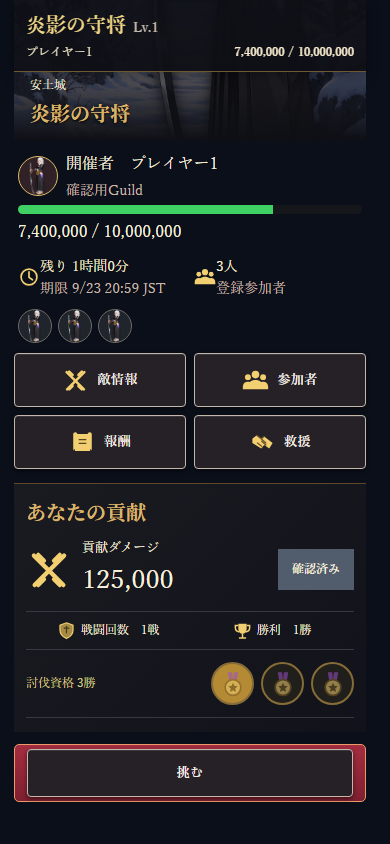
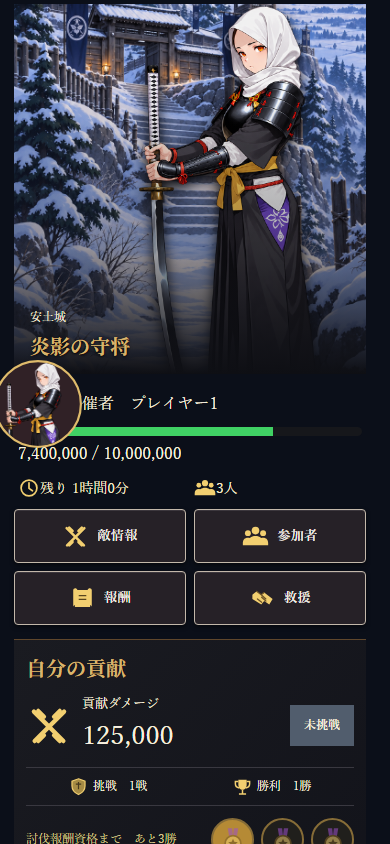
fix: align compact raid detail with approved mock

diff --git a/src/app/components/raid/RaidApprovedVisual.css b/src/app/components/raid/RaidApprovedVisual.css
@@ -5,3 +5,5 @@
 .raid-approved-detail{position:relative;color:#f8f0df}.raid-approved-detail__compact{position:sticky;top:0;z-index:8;display:grid;grid-template-columns:minmax(0,1fr) auto;gap:2px 12px;padding:9px 12px;background:rgba(15,16,22,.96);border-bottom:1px solid #6f5834;box-shadow:0 4px 12px rgba(0,0,0,.35)}.raid-approved-detail__compact strong{grid-column:1/-1;color:#efd584;font:700 20px Georgia,serif}.raid-approved-detail__compact small{font-size:.7em}.raid-approved-detail__compact span,.raid-approved-detail__compact b{font-size:12px;color:#f7ebce}.raid-approved-detail__compact b{text-align:right}
 .raid-approved-detail__hero{height:370px;position:relative;overflow:hidden}.raid-approved-detail__background{position:absolute;inset:0;width:100%;height:100%;object-fit:cover}.raid-approved-detail__character{position:absolute;inset:0 0 0 auto;width:94%;height:118%;object-fit:contain;object-position:50% 0;transform:translateX(11%);filter:drop-shadow(0 5px 7px #000)}.raid-approved-detail__hero:after{content:'';position:absolute;inset:0;background:linear-gradient(0deg,#0e0f14 0,rgba(10,10,16,.35) 34%,transparent 78%);pointer-events:none}.raid-approved-detail__hero-copy{position:absolute;left:16px;right:12px;bottom:14px;z-index:1}.raid-approved-detail__hero-copy span{font-size:12px}.raid-approved-detail__hero-copy h2{margin:3px 0 0;color:#eed27e;font:700 27px Georgia,serif;text-shadow:0 1px 3px #000}.raid-approved-detail__owner{display:flex;align-items:center;gap:8px;padding:10px 4px 3px}.raid-approved-detail__owner>img,.raid-approved-detail__owner>span{width:40px;height:40px;border-radius:50%;border:1px solid #dfbb6b;background:#302126;object-fit:contain}.raid-approved-detail__owner div{display:grid;gap:2px}.raid-approved-detail__owner strong{font:16px Georgia,serif}.raid-approved-detail__owner small{color:#d3c8b8;font-size:11px}.raid-approved-detail__battle{padding:0 4px}.raid-approved-detail__battle>.raid-approved-detail__hp>div{height:9px;background:#16171b;border-radius:5px;overflow:hidden}.raid-approved-detail__battle>.raid-approved-detail__hp>div span{display:block;height:100%;background:#40d164}.raid-approved-detail__battle>.raid-approved-detail__hp strong{display:block;margin-top:5px;font:16px Georgia,serif}.raid-approved-detail__facts{display:grid;grid-template-columns:1fr 1fr;gap:8px;margin-top:10px}.raid-approved-detail__facts>span{display:grid;grid-template-columns:22px 1fr;align-items:center;color:#f7ebce;font-size:14px}.raid-approved-detail__facts small{grid-column:2;color:#bdb3a4;font-size:10px}.raid-approved-detail__facts .raid-approved-visual__icon{width:22px;height:22px;grid-row:1/3}.raid-approved-detail__faces{display:flex;gap:6px;margin:10px 0}.raid-approved-detail__faces img{width:34px;height:34px;border-radius:50%;border:1px solid #6e6a67;object-fit:contain;background:#20242b}.raid-approved-detail__actions{display:grid;grid-template-columns:repeat(2,1fr);gap:8px;margin-top:10px}.raid-approved-detail__actions>*{min-height:54px}.raid-approved-detail__actions img{width:27px;height:27px}.raid-approved-detail__contribution{margin-top:14px;padding:14px 12px;background:linear-gradient(135deg,#1a1b21,#12131a);border-top:1px solid #60472c}.raid-approved-detail__contribution h2{margin:0 0 12px;color:#e9ca6c;font:700 23px Georgia,serif}.raid-approved-detail__damage{display:flex;align-items:center;gap:10px}.raid-approved-detail__damage>.raid-approved-visual__icon{width:46px;height:46px}.raid-approved-detail__damage span{display:grid;font-size:13px}.raid-approved-detail__damage strong{font:26px Georgia,serif}.raid-approved-detail__damage b{margin-left:auto;background:#515d6d;padding:11px 14px;font-size:12px}.raid-approved-detail__stats{display:grid;grid-template-columns:1fr 1fr;margin-top:10px;padding:9px 0;border-top:1px solid #393840;border-bottom:1px solid #393840;font-size:12px}.raid-approved-detail__stats span{display:flex;align-items:center;justify-content:center;gap:5px}.raid-approved-detail__stats img{width:19px;height:19px}.raid-approved-detail__eligibility{display:flex;align-items:center;justify-content:space-between;padding:12px 0;border-bottom:1px solid #393840;color:#d9c98f;font-size:12px}.raid-approved-detail__eligibility>div{display:flex;gap:7px}.raid-approved-detail__eligibility>div span{display:grid;place-items:center;width:43px;height:43px;border:2px solid #866c37;border-radius:50%;background:#201f1c}.raid-approved-detail__eligibility .raid-approved-visual__icon{width:28px;height:28px;opacity:.55}.raid-approved-detail__eligibility>div span.is-done{background:#b58a35}.raid-approved-detail__challenge{display:flex;align-items:center;width:100%;gap:14px;margin-top:12px;min-height:58px;padding:0 12px;border:1px solid #ed9a6a;border-radius:5px;background:linear-gradient(#a52d40,#7e2031);color:#fff;font-size:21px}.raid-approved-detail__challenge>span:last-child{display:flex;align-items:center;gap:4px;margin-left:auto;font-size:12px}.raid-approved-detail__challenge img{width:20px;height:20px}
 .raid-approved-card__footer>button{border:1px solid #e3bb8a;border-radius:4px;background:#8f2435;color:#fff}.raid-approved-detail__challenge .outlaw-button{width:100%;border-color:#ed9a6a;background:linear-gradient(#a52d40,#7e2031);color:#fff}
+.raid-approved-detail__compact{grid-template-columns:30px minmax(0,1fr) auto;align-items:center;gap:8px;padding:7px 10px}.raid-approved-detail__compact>img,.raid-approved-detail__compact>span{width:28px;height:28px;border:1px solid #dfbb6b;border-radius:50%;background:#302126;object-fit:cover;object-position:50% 10%;transform:scale(1.35);overflow:hidden}.raid-approved-detail__compact>div{display:grid;gap:1px;min-width:0}.raid-approved-detail__compact strong{grid-column:auto;font-size:14px;white-space:nowrap;overflow:hidden;text-overflow:ellipsis}.raid-approved-detail__compact div span{font-size:10px;color:#f7ebce;white-space:nowrap}.raid-approved-detail__compact b{font-size:11px;white-space:nowrap}.raid-approved-detail__hero.is-compact{height:150px}.raid-approved-detail__hero.is-compact .raid-approved-detail__character{height:125%}.raid-approved-detail__owner>img{object-fit:cover;object-position:50% 8%;transform:scale(1.65);overflow:hidden}.raid-approved-detail__owner small{display:none}.raid-approved-detail__contribution>p{margin:10px 0 0;color:#d3c8b8;font-size:11px}.raid-approved-detail__challenge .outlaw-button-inner{width:100%;justify-content:center;background:linear-gradient(#a52d40,#7e2031);color:#fff;padding:9px 12px}.raid-approved-detail__challenge .outlaw-button{background:linear-gradient(#a52d40,#7e2031);border-color:#ed9a6a}
+.raid-approved-detail__compact>img,.raid-approved-detail__compact>span{transform:scale(2.1);object-position:50% 0}.raid-approved-detail__owner>img{transform:scale(2.2);object-position:50% 0}

diff --git a/src/app/components/raid/RaidApprovedVisual.tsx b/src/app/components/raid/RaidApprovedVisual.tsx
@@ -55,10 +55,10 @@ export interface RaidApprovedDetailData {
 
 export function RaidApprovedDetailVisual({ data, resolve = value => value, compact = false, actions, contribution, challenge }: { data: RaidApprovedDetailData; resolve?: (url: string) => string; compact?: boolean; actions: ReactNode; contribution: ReactNode; challenge: ReactNode }) {
   return <div className="raid-approved-detail">
-    {compact && <div className="raid-approved-detail__compact"><strong>{data.bossName} <small>Lv.1</small></strong><span>{data.ownerName}</span><b>{data.hpValueLabel}</b></div>}
-    <section className="raid-approved-detail__hero"><img className="raid-approved-detail__background" src={data.backgroundUrl ? resolve(data.backgroundUrl) : undefined} alt="" /><img className="raid-approved-detail__character" src={data.characterUrl ? resolve(data.characterUrl) : undefined} alt="" /><div className="raid-approved-detail__hero-copy"><span>{data.areaLabel}</span><h2>{data.bossName}</h2></div></section>
-    <section className="raid-approved-detail__owner">{data.ownerImageUrl ? <img src={resolve(data.ownerImageUrl)} alt={data.ownerName} /> : <span />}<div><strong>開催者　{data.ownerName}</strong><small>{data.guildLabel}</small></div></section>
-    <section className="raid-approved-detail__battle"><div className="raid-approved-detail__hp"><div><span style={{ width: `${data.hpPercent ?? 0}%` }} /></div><strong>{data.hpValueLabel}</strong></div><div className="raid-approved-detail__facts"><span><RaidApprovedIcon name="clock" />{data.remainingLabel}<small>{data.expiryLabel}</small></span><span><RaidApprovedIcon name="people" />{data.participantLabel}<small>登録参加者</small></span></div>{data.faces && <div className="raid-approved-detail__faces">{data.faces.map(face => <img key={face.id} src={resolve(face.url)} alt={face.name} />)}</div>}</section>
+    {compact && <div className="raid-approved-detail__compact">{data.ownerImageUrl ? <img src={resolve(data.ownerImageUrl)} alt={data.ownerName} /> : <span />}<div><strong>{data.bossName} <small>Lv.1</small></strong><span>開催者　{data.ownerName}</span></div><b>{data.hpValueLabel}</b></div>}
+    <section className={`raid-approved-detail__hero${compact ? ' is-compact' : ''}`}><img className="raid-approved-detail__background" src={data.backgroundUrl ? resolve(data.backgroundUrl) : undefined} alt="" /><img className="raid-approved-detail__character" src={data.characterUrl ? resolve(data.characterUrl) : undefined} alt="" />{!compact && <div className="raid-approved-detail__hero-copy"><span>{data.areaLabel}</span><h2>{data.bossName}</h2></div>}</section>
+    {!compact && <><section className="raid-approved-detail__owner">{data.ownerImageUrl ? <img src={resolve(data.ownerImageUrl)} alt={data.ownerName} /> : <span />}<div><strong>開催者　{data.ownerName}</strong></div></section>
+    <section className="raid-approved-detail__battle"><div className="raid-approved-detail__hp"><div><span style={{ width: `${data.hpPercent ?? 0}%` }} /></div><strong>{data.hpValueLabel}</strong></div><div className="raid-approved-detail__facts"><span><RaidApprovedIcon name="clock" />{data.remainingLabel}</span><span><RaidApprovedIcon name="people" />{data.participantLabel}</span></div></section></>}
     <nav className="raid-approved-detail__actions">{actions}</nav>
     {contribution}
     {challenge}
@@ -66,7 +66,7 @@ export function RaidApprovedDetailVisual({ data, resolve = value => value, compa
 }
 
 export function RaidApprovedContribution({ damageLabel, damageValue, battlesLabel, eligibilityLabel, completed = 0 }: { damageLabel: string; damageValue: string; battlesLabel: string; eligibilityLabel: string; completed?: number }) {
-  return <section className="raid-approved-detail__contribution"><h2>あなたの貢献</h2><div className="raid-approved-detail__damage"><RaidApprovedIcon name="swords" /><span>貢献ダメージ<strong>{damageValue}</strong></span><b>{damageLabel}</b></div><div className="raid-approved-detail__stats"><span><RaidApprovedIcon name="armor" />戦闘回数　{battlesLabel}</span><span><RaidApprovedIcon name="victory" />勝利　{completed}勝</span></div><div className="raid-approved-detail__eligibility"><span>{eligibilityLabel}</span><div>{[1, 2, 3].map(step => <span className={completed >= step ? 'is-done' : ''} key={step}><RaidApprovedIcon name="medal" /></span>)}</div></div></section>;
+  return <section className="raid-approved-detail__contribution"><h2>自分の貢献</h2><div className="raid-approved-detail__damage"><RaidApprovedIcon name="swords" /><span>貢献ダメージ<strong>{damageValue}</strong></span><b>{damageLabel}</b></div><div className="raid-approved-detail__stats"><span><RaidApprovedIcon name="armor" />挑戦　{battlesLabel}</span><span><RaidApprovedIcon name="victory" />勝利　{completed}勝</span></div><div className="raid-approved-detail__eligibility"><span>{eligibilityLabel}</span><div>{[1, 2, 3].map(step => <span className={completed >= step ? 'is-done' : ''} key={step}><RaidApprovedIcon name="medal" /></span>)}</div></div><p>参加時の共通進行　Lv.1</p></section>;
 }
 
 export function RaidApprovedChallenge({ children }: { children: ReactNode }) {

diff --git a/src/app/components/raid/RaidRoomDetail.tsx b/src/app/components/raid/RaidRoomDetail.tsx
@@ -67,12 +67,13 @@ export default function RaidRoomDetail({ room, briefing, display, participants, 
   const [assets, setAssets] = useState<{ key: string; results: AssetResult[] } | null>(null);
   const [retry, setRetry] = useState(0);
   useEffect(() => {
-    const scrollOwner = document.querySelector<HTMLElement>('.ui-hub-page-scroll');
-    if (!scrollOwner) return;
-    const update = () => setCompactHeader(scrollOwner.scrollTop > 180);
+    const candidate = document.querySelector<HTMLElement>('.ui-hub-page-scroll');
+    const readTop = () => Math.max(candidate?.scrollTop ?? 0, window.scrollY);
+    const update = () => setCompactHeader(readTop() > 120);
     update();
-    scrollOwner.addEventListener('scroll', update, { passive: true });
-    return () => scrollOwner.removeEventListener('scroll', update);
+    candidate?.addEventListener('scroll', update, { passive: true });
+    window.addEventListener('scroll', update, { passive: true });
+    return () => { candidate?.removeEventListener('scroll', update); window.removeEventListener('scroll', update); };
   }, []);
   useEffect(() => {
     let cancelled = false;
@@ -89,6 +90,6 @@ export default function RaidRoomDetail({ room, briefing, display, participants, 
   const expires = room.expiresAt.status === "available" ? Date.parse(room.expiresAt.value) : NaN;
   const detailData = { areaLabel: enemy?.areaName ?? "エリア未確認", bossName: enemy?.bossName ?? brief?.bossName ?? "敵情報未確認", backgroundUrl: enemy?.backgroundUrl, characterUrl: enemy?.leaderImageUrl, ownerName: owner?.name ?? "未確認", ownerImageUrl: ownerUrl, guildLabel: guild, hpPercent: percent, hpValueLabel: hp ? `${number(hp.current)} / ${number(hp.max)}` : "HP未確認", remainingLabel: lifecycle.remainingLabel, expiryLabel: Number.isFinite(expires) ? `期限 ${new Date(expires).toLocaleString("ja-JP", { timeZone: "Asia/Tokyo", month: "numeric", day: "numeric", hour: "2-digit", minute: "2-digit" })} JST` : "期限未確認", participantLabel: room.participantCount.status === "available" ? `${number(room.participantCount.value)}人` : "未確認", faces: faceImages };
   const detailActions = <>{ENTRANCES.map(entry => <OutlawButton key={entry.id} loadingLabel="" disabled={busy || (entry.id === "participants" && !isJoined)} aria-label={entry.label === "参加者" ? "参加者一覧" : entry.label} onClick={entry.id === "participants" ? onParticipants : entry.id === "rewards" ? onRewards : onEnemyInfo}><img src={resolve(entry.icon)} alt="" /><span>{entry.label}</span></OutlawButton>)}{rescue && <OutlawButton loadingLabel="" disabled={busy} aria-label="救援" onClick={() => setRescueOpen(true)}><img src={resolve("/ui/raid/handshake.svg")} alt="" /><span>救援</span></OutlawButton>}</>;
-  const contribution = isJoined ? <RaidApprovedContribution damageLabel={participants.status === "error" ? "未確認" : "確認済み"} damageValue={me?.appliedDamage.status === "available" ? number(me.appliedDamage.value) : "未確認"} battlesLabel={me?.finalizedBattles.status === "available" ? `${number(me.finalizedBattles.value)}戦` : "未確認"} eligibilityLabel="討伐資格 3勝" completed={me?.finalizedBattles.status === "available" ? me.finalizedBattles.value : 0} /> : null;
+  const contribution = isJoined ? <RaidApprovedContribution damageLabel="未挑戦" damageValue={me?.appliedDamage.status === "available" ? number(me.appliedDamage.value) : "未確認"} battlesLabel={me?.finalizedBattles.status === "available" ? `${number(me.finalizedBattles.value)}戦` : "未確認"} eligibilityLabel="討伐報酬資格まで　あと3勝" completed={me?.finalizedBattles.status === "available" ? me.finalizedBattles.value : 0} /> : null;
   return <div className="raid-detail" data-testid="raid-room-detail"><RaidApprovedDetailVisual data={detailData} resolve={resolve} compact={compactHeader} actions={detailActions} contribution={contribution} challenge={<RaidApprovedChallenge>{action}</RaidApprovedChallenge>} /><QuestRaidBonus roomId={room.roomId} />{rescue && rescueOpen && createPortal(<CanonicalDialog title="救援" onClose={() => setRescueOpen(false)} actions={[{label:"閉じる",semantic:"secondary",onClick:()=>setRescueOpen(false)}]}>{rescue}</CanonicalDialog>, document.body)}</div>;
 }
